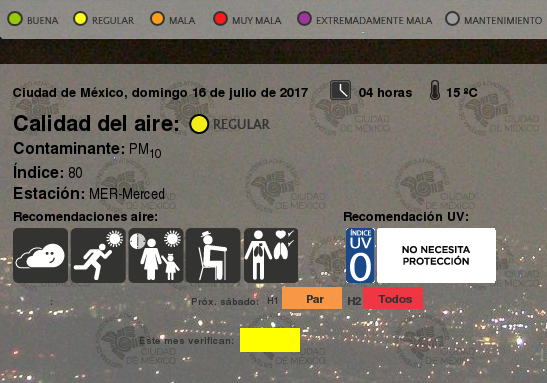
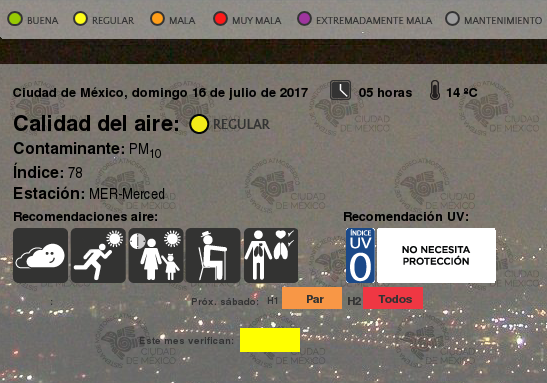
update images 16-07-2017 05:20

diff --git a/README.md b/README.md
@@ -8727,3 +8727,4 @@
 |16-07-2017 04:50
 |16-07-2017 05:03
 |16-07-2017 05:11
+|16-07-2017 05:20
